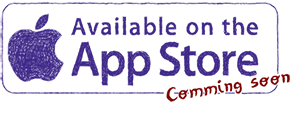
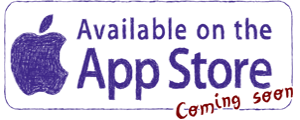
Stores Atualizadas En-Us

diff --git a/bridgefall.html b/bridgefall.html
@@ -52,16 +52,17 @@ http://www.templatemo.com/tm-474-app-landing
 				<div class="col-sm-6">
 					<p class="text-center">
 					  <div class="video-container">
-							<iframe src="https://www.youtube.com/watch?v=QeL-5p6-Mm4" width="640px" height="360px" frameborder="0" allowfullscreen></iframe>
-						</div>
+							<iframe width="640" height="360" src="https://www.youtube.com/embed/QeL-5p6-Mm4" frameborder="0" allowfullscreen></iframe>
+                        </div>
 					</p>		
                 </div>
                 <div class="templatemo_home_inner_wapper btn_wapper">
                     <div class="col-sm-6">
 						<p class="text-center">
 							<a target="_blank" href="https://play.google.com/store/apps/details?id=com.zugbahn.bridgefall&ah=0pLaeSaaogRE_g2PMIkdGCxhVwI&hl=pt-BR"><img src="images/bridgeGoogleplay.png"></a>
-							<a target="_blank" href=""> <img src="images/bridgeAppstore.png"></a>
-							<a target="_blank" href="https://www.microsoft.com/pt-br/store/games/bridgefall/9nblggh67btm"> <img src="images/windows_phone_azul.png"></a>
+							<a target="_blank" href="https://www.microsoft.com/pt-br/store/games/bridgefall/9nblggh67btm"> <img src="images/bridgeWindowsstore.png"></a>
+							<a target="_blank" href="#"> <img src="images/bridgeAppstore.png"></a>
+							
 						</p>
 					</div>
                       
